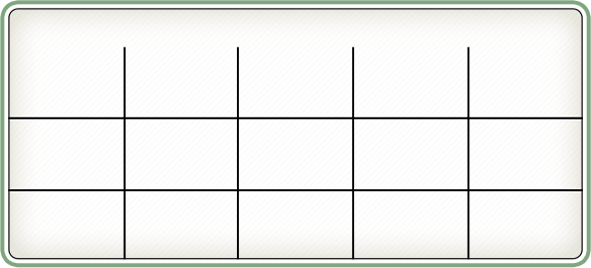
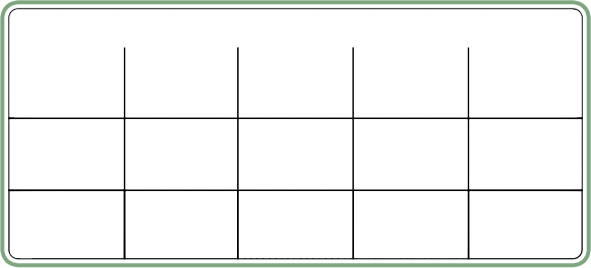
card bg

Changed region(s): [[0.0, 0.0299, 1.0, 0.9851]]

diff --git a/newMoblie/src/bingoGames/v2games/turbo90/Turbo90Card.ts b/newMoblie/src/bingoGames/v2games/turbo90/Turbo90Card.ts
@@ -1,0 +1,23 @@
+class Turbo90Card extends GameCard{
+
+	private titleBg: egret.Bitmap;
+
+	public constructor( cardId: number ) {
+		super( cardId );
+	}
+
+	protected onAdd( event: egret.Event ){
+		super.onAdd( event );
+		this.titleBg = Com.addBitmapAt( this, BingoMachine.getAssetStr( "CARD_HEADER_BG_white" ), 9, 8 );
+		this.addChild( this.cardText );
+		this.addChild( this.betText );
+	}
+
+	public getBgColor(){
+		if( !this.titleBg )return;
+		if( GameCard.titleColors ){
+			this.titleBg.filters = [ MatrixTool.colorMatrixPure( GameCard.titleColors[GameCard.currentBgColorIndex] ) ];
+			// GraphicTool.drawRect( this, new egret.Rectangle( 0, 0, this.bg.width, this.bg.height ), GameCard.titleColors[GameCard.currentBgColorIndex], true, 1, GameCard.bgRound );
+		}
+	}
+}

diff --git a/newMoblie/src/bingoGames/v2games/turbo90/Turbo90.ts b/newMoblie/src/bingoGames/v2games/turbo90/Turbo90.ts
@@ -14,8 +14,7 @@ class Turbo90 extends V2Game{
 
         PaytableUI.textBold = true;
 
-        GameCard.bgRound = 20;
-        GameCard.gridOnTop = true;
+        CardManager.cardType = Turbo90Card;
 
         GameCard.cardTexPosition = new egret.Point( 10, 2 );
         GameCard.betTexPosition = new egret.Point( 120, 2 );
